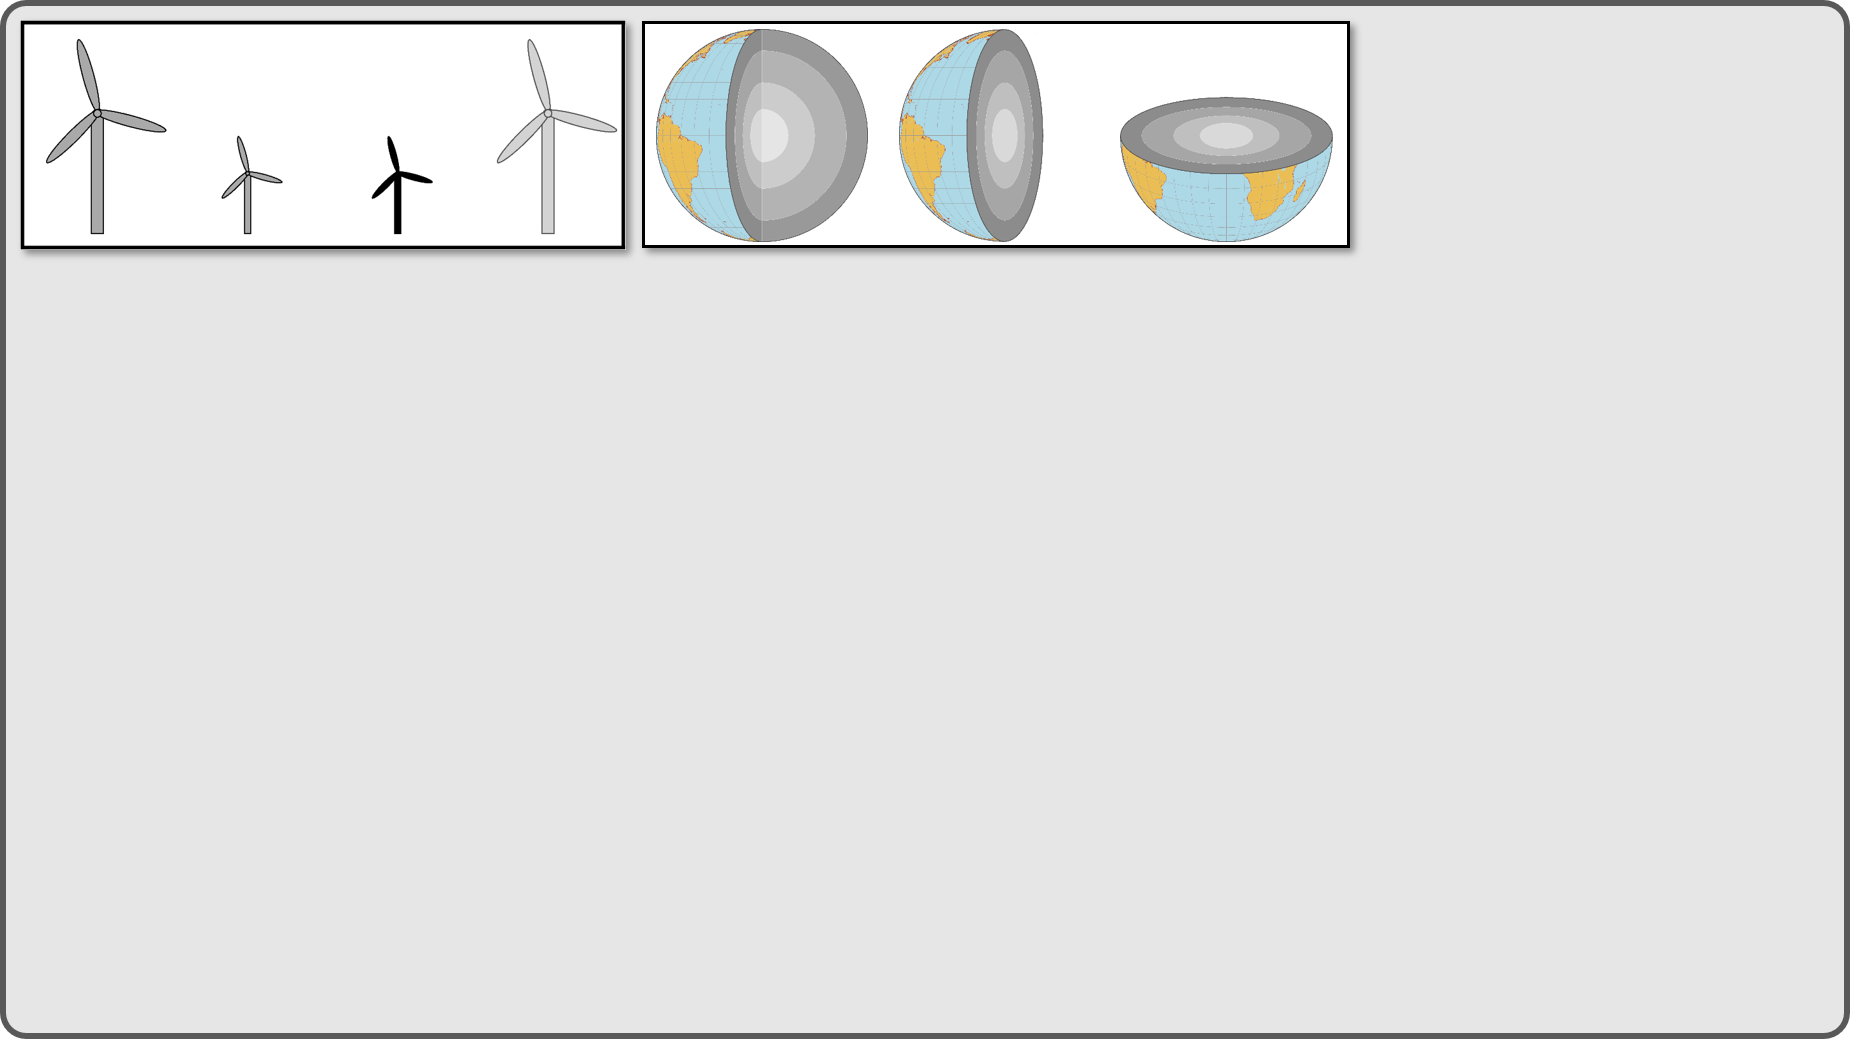
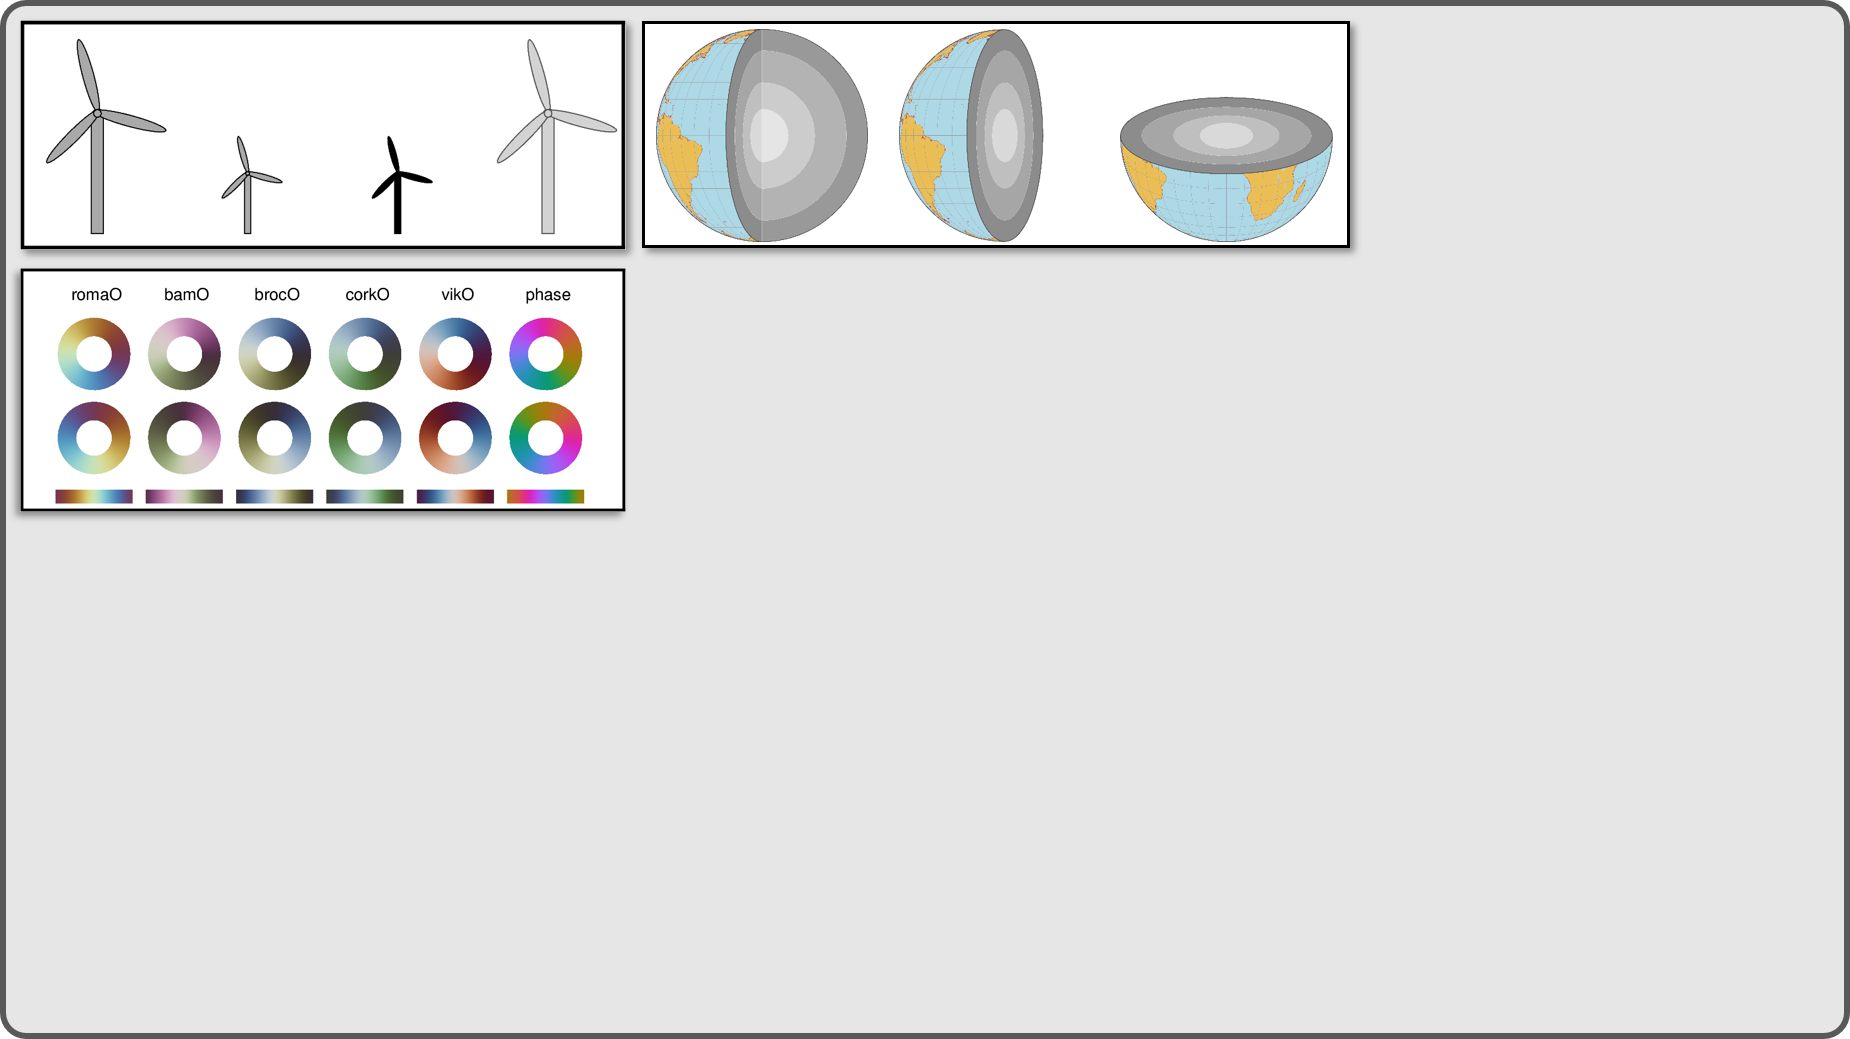
000_general: Add first version of "02_colorwheel" (#23)

Changed region(s): [[0.0, 0.2464, 0.3389, 0.5236]]

diff --git a/000_general_stuff/02_colorwheel/colorwheel_pygmt.py b/000_general_stuff/02_colorwheel/colorwheel_pygmt.py
@@ -1,0 +1,129 @@
+# #############################################################################
+# Colorwheel for cyclic colormaps created with PyGMT
+# - Scientific colourmaps by Fabio Crameri: romaO, bamO, brocO, corkO, vikO
+# - cmocean colormaps by Kristen M. Thyng: phase
+# >>> Be careful and check how measuring the angle is defined in your dataset <<<
+# Use the perspective parameter to take this into consideration
+# See also the example at the end of this script
+# -----------------------------------------------------------------------------
+# History
+# - Created: 2024/05/15
+# - Updated: 2025/01/14
+# -----------------------------------------------------------------------------
+# Versions
+#   PyGMT v0.14.0 -> https://www.pygmt.org/v0.14.0/ | https://www.pygmt.org/
+#   GMT 6.5.0 -> https://www.generic-mapping-tools.org/
+# -----------------------------------------------------------------------------
+# Contact
+# - Author: Yvonne Fröhlich
+# - ORCID: https://orcid.org/0000-0002-8566-0619
+# - GitHub: https://github.com/yvonnefroehlich/gmt-pygmt-plotting
+# #############################################################################
+
+
+import numpy as np
+import pygmt
+
+
+def colorwheel(cmap, perspective, rho_min=1, rho_max=2.5, fig_instance=None):
+    """
+    Parameters
+    ----------
+    Required
+    - cmap : str | name of a cyclic colormap
+    - perspective : list of two floats | azimuth, elevation
+    Optional
+    - rho_min : float | inner radius of colorwheel | Default 1
+    - rho_max : float | outer radius of colorwheel | Default 2.5
+    - fig_instance : Provide a PyGMT figure instance | Default a new one is set up
+    """
+
+# -----------------------------------------------------------------------------
+# Set up rotated rectangle or bar data
+# -----------------------------------------------------------------------------
+    # [[lon, lat, direction, width, height]]
+    # In polar coordinates lon refers to the angle and lat to the radius (rho)
+    # Location applies to the center of the bar -> shift by length/2
+    # Add quantity for fill color as second column (zero-based indexing)
+    # Direction of bar (j) is from North but still counter-clockwise -> negative sign
+    data_bars = np.zeros([360, 6])
+    for i_ang in range(0, 360, 1):  # min, max], step
+        data_bars_temp = np.array(
+            [
+                i_ang,
+                rho_min + rho_max / 2,
+                i_ang,
+                -i_ang,
+                0.05,
+                rho_max - rho_min,
+            ]
+        )
+        data_bars[i_ang, :] = data_bars_temp
+
+# -----------------------------------------------------------------------------
+# Create colorwheel plot
+# -----------------------------------------------------------------------------
+    if fig_instance != None:
+        fig = fig_instance
+    else:
+        fig = pygmt.Figure()
+
+    with pygmt.config(
+        PS_PAGE_COLOR="white@1",  # Make area outside of plot transparent
+        MAP_FRAME_PEN="white",  # Make frame outline white
+    ):
+        fig.basemap(
+            region=[0, 360, 0, rho_max],
+            # Use geographic azimuth instead of standard angle -> backazimuth
+            # Go clockwise from North instead of counter-clockwise from East
+            projection=f"P{rho_max * 2}c+a",
+            frame="rltb",
+        )
+
+    # Create colormap for direction (backazimuth)
+    pygmt.makecpt(cmap=cmap, cyclic=True, series=[0, 360, 1])
+
+    # Plot rotated rectangles with color-coding
+    # Set perspective as [azimuth, elevation]
+    fig.plot(data=data_bars, style="j", cmap=True, perspective=perspective)
+
+    # Show and save
+    fig_name = f"colorwheel_N_cw_pygmt_bar_{cmap}"
+    if fig_instance == None:
+        fig.show()
+        for ext in ["png"]:  # , "pdf", "eps"]:
+            fig.savefig(fname=f"{fig_name}.{ext}", dpi=720)
+    print(fig_name)
+
+
+# %%
+# -----------------------------------------------------------------------------
+# Examples
+# -----------------------------------------------------------------------------
+fig = pygmt.Figure()
+fig.basemap(region=[-5, 5, -2, 2], projection="X10c/4c", frame=0)
+
+fig.shift_origin(xshift="0.6c", yshift="2c")
+for cmap in ["romaO", "bamO", "brocO", "corkO", "vikO", "phase"]:
+    colorwheel(
+        cmap=cmap,
+        perspective=[90, -90],  # anti-clockwise from horizontal
+        rho_min=0.2,
+        rho_max=0.6,
+        fig_instance=fig,
+    )
+    fig.shift_origin(yshift="-1.4c")
+    colorwheel(
+        cmap=cmap,
+        perspective=[180, 90],  # clockwise from vertical (-> backazimuth)
+        rho_min=0.2,
+        rho_max=0.6,
+        fig_instance=fig,
+    )
+    fig.text(x=1, y=2.4, text=cmap, no_clip=True)
+    pygmt.makecpt(cmap=cmap, series=[0, 360], cyclic=True)
+    fig.colorbar(cmap=True, position="jBC+o0c/-0.5c+w1.1c/0.25c+h", frame=0)
+    fig.shift_origin(xshift="1.5c", yshift="1.4c")
+
+fig.show()
+# fig.savefig(fname="colorwheel_all_cmaps.png", dpi=720)

diff --git a/README.md b/README.md
@@ -39,7 +39,8 @@ If you make use of this material, please acknowledge the relating publications i
 
 ## Content
 
-- **[000_general_stuff](https://github.com/yvonnefroehlich/gmt-pygmt-plotting/tree/main/000_general_stuff)**: Custom symbols, Earth section
+
+- **[000_general_stuff](https://github.com/yvonnefroehlich/gmt-pygmt-plotting/tree/main/000_general_stuff)**: Custom symbols, colorwheel, colobar font scaling, Earth section
 - **[001_paper_RFSG_2022](https://github.com/yvonnefroehlich/gmt-pygmt-plotting/tree/main/001_paper_RFSG_2022)**: Maps of [**_Ritter et al. (2022)_**](https://doi.org/10.1007/s10950-022-10112-w)
 - **[002_paper_FGR_2024](https://github.com/yvonnefroehlich/gmt-pygmt-plotting/tree/main/002_paper_FGR_2024)**: Maps of [**_Fröhlich et al. (2024)_**](https://doi.org/10.1093/gji/ggae245)
 - **[003_taup](https://github.com/yvonnefroehlich/gmt-pygmt-plotting/tree/main/003_taup)**: Travel paths of seismological phases through the Earth interior; related to [**_Fröhlich et al. (2024)_**](https://doi.org/10.1093/gji/ggae245)

diff --git a/000_general_stuff/README.md b/000_general_stuff/README.md
@@ -5,6 +5,7 @@
 _Recommended versions_: PyGMT v0.11.0 / v0.12.0 / v0.13.0, GMT 6.4.0 / 6.5.0
 
 - **[01_custom_symbols](https://github.com/yvonnefroehlich/gmt-pygmt-plotting/tree/main/000_general_stuff/01_custom_symbols)**
+- **[02_colorwheel](https://github.com/yvonnefroehlich/gmt-pygmt-plotting/tree/main/000_general_stuff/02_colorwheel)**
 - **[03_cb_font_scaling](https://github.com/yvonnefroehlich/gmt-pygmt-plotting/tree/main/000_general_stuff/03_cb_font_scaling)**
 - **[04_earth_section](https://github.com/yvonnefroehlich/gmt-pygmt-plotting/tree/main/000_general_stuff/04_earth_section)**
 
